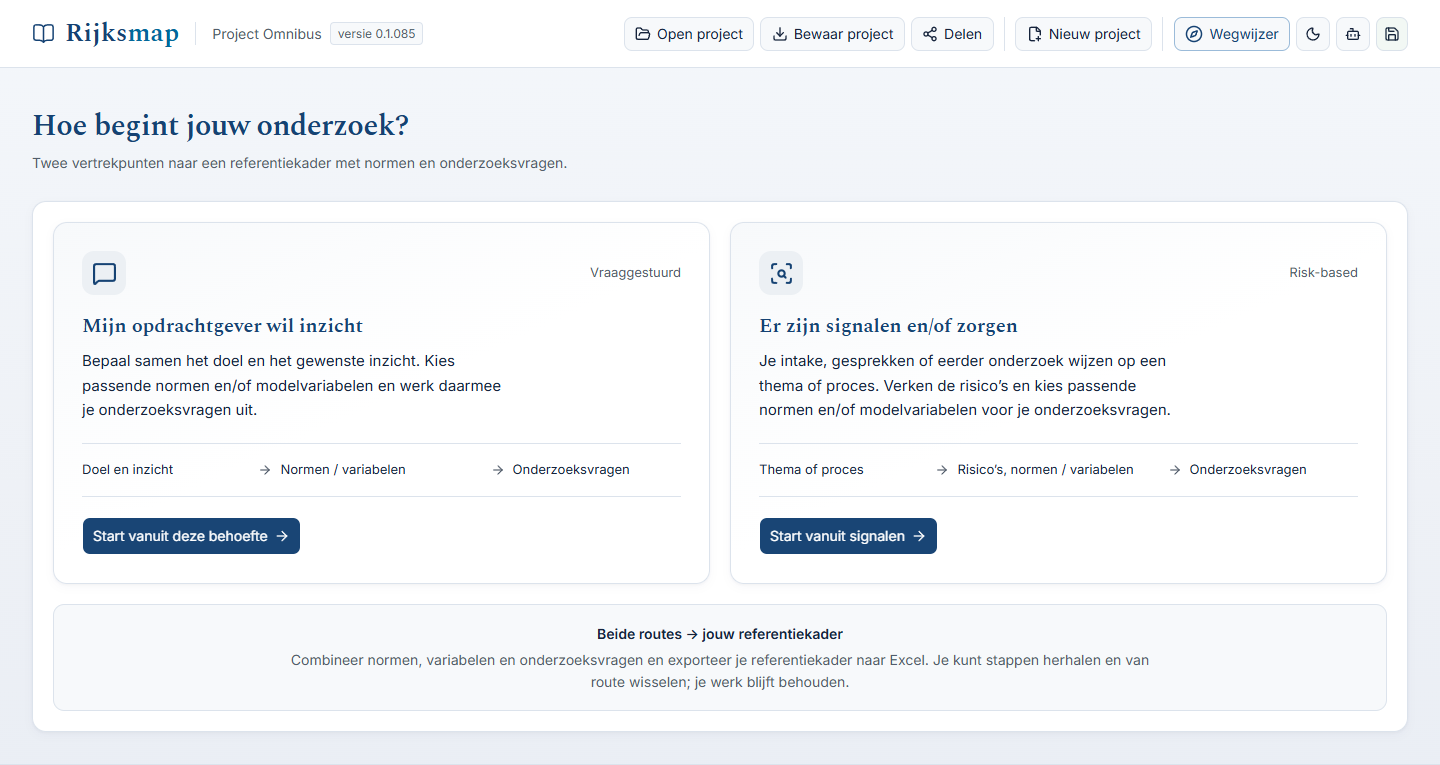
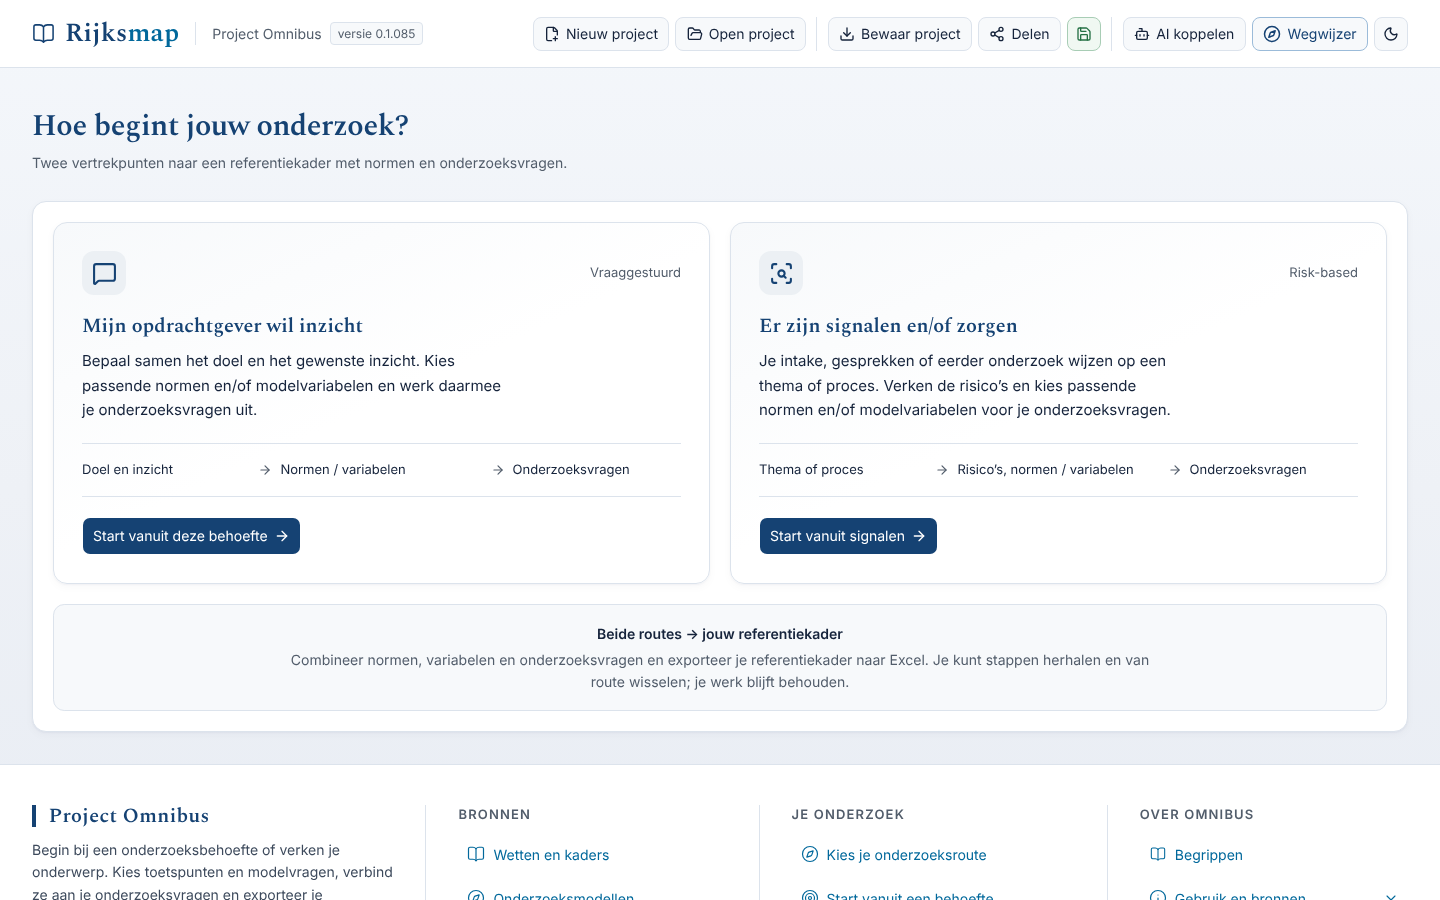
Rondleiding en nieuwe schermafbeeldingen, ook in donkere modus
- README: een rondleiding van 25 seconden (GIF, 1,1 MB) onder 'Zo werkt het':
  onderzoeksrichting kiezen, normen uit het CIO-stelsel selecteren, een
  centrale vraag met zes bouwstenen maken en exporteren naar Excel.
- Nieuwe schermafbeeldingen van alle vier de stappen, gemaakt met de openbare
  database en een fictief onderzoek, met beschrijvende alt-tekst.
- Startscherm en stap 2 ook in donkere modus (GitHub kiest zelf).
- Schermafbeeldingen bij installeren, AI-koppeling en eigen documenten.

Closes #6
Closes #33

Claude-Session: https://claude.ai/code/session_014QjVUqf6CZXmfGxtb2PVWK

diff --git a/docs/gebruiken/werken-met-omnibus.md b/docs/gebruiken/werken-met-omnibus.md
@@ -33,7 +33,14 @@ Kies hoe je begint:
 
 Beide routes komen uit bij hetzelfde kader. Je kunt later van route wisselen.
 
-![Het startscherm met de twee routes](../images/omnibus-overview.png)
+<picture>
+  <source media="(prefers-color-scheme: dark)" srcset="../images/omnibus-overview-donker.png">
+  <img src="../images/omnibus-overview.png" alt="Het startscherm met de twee routes: vanuit een vraag of vanuit signalen">
+</picture>
+
+Na je keuze geef je de onderzoeksrichting en het onderwerp op:
+
+![Stap 1: de onderzoeksrichting Diagnostisch is gekozen en het onderwerp ingevuld](../images/stap-1-onderzoeksrichting.png)
 
 ### 2. Verzamel
 
@@ -46,7 +53,10 @@ Blader door de bronnen en kies wat je nodig hebt:
 
 Bij elke norm zie je de samenhang tussen doel, risico, beheersdoelstelling en beheersmaatregel. Je kiest losse toetspunten, een hele norm of een hele groep.
 
-![Normen uit een rapport, met doel, risico en beheersing naast elkaar](../images/stap-2-verzamel.png)
+<picture>
+  <source media="(prefers-color-scheme: dark)" srcset="../images/stap-2-verzamel-donker.png">
+  <img src="../images/stap-2-verzamel.png" alt="Stap 2: normen uit het Besluit CIO-stelsel, met doel, risico, beheersdoelstelling en beheersmaatregel naast elkaar; zes toetspunten zijn gekozen">
+</picture>
 
 Twijfel je over een norm? Open de bron. Je leest dan de oorspronkelijke tekst, met de passage gemarkeerd.
 
@@ -57,7 +67,7 @@ Schrijf je centrale onderzoeksvraag en deelvragen. Koppel de gekozen bouwstenen 
 - **Zelf formuleren:** je schrijft de vragen, met voorbeelden als hulp.
 - **Vanuit je selectie:** Omnibus doet een voorstel op basis van wat je hebt gekozen. Jij past het aan.
 
-![Twee manieren om je vragen op te bouwen](../images/stap-3-bouw-je-kader.png)
+![Stap 3: een centrale onderzoeksvraag met zes gekoppelde bouwstenen](../images/stap-3-bouw-je-kader.png)
 
 ### 4. Exporteer
 
@@ -71,7 +81,7 @@ Kies een werkvorm voor je Excel-bestand:
 
 Alleen de indeling van het Excel-bestand verschilt. Je vragen en koppelingen blijven hetzelfde.
 
-![De exportstap met drie werkvormen](../images/stap-4-exporteer.png)
+![Stap 4: de exportstap met drie werkvormen; Normtoetsing is gekozen](../images/stap-4-exporteer.png)
 
 ## Je werk bewaren en delen
 

diff --git a/README.md b/README.md
@@ -39,7 +39,10 @@ Omnibus is een hulpmiddel voor **auditors en onderzoekers**. Het helpt je een *t
 
 Je begint niet met een leeg vel. Omnibus bevat normen uit eerdere onderzoeksrapporten, uit wetten en uit normenkaders. Jij kiest wat past bij jouw onderzoek. Bij elke norm kun je de oorspronkelijke bron lezen, zodat je altijd weet waar hij vandaan komt.
 
-![Het startscherm van Omnibus: kies of je begint vanuit een vraag of vanuit signalen](docs/images/omnibus-overview.png)
+<picture>
+  <source media="(prefers-color-scheme: dark)" srcset="docs/images/omnibus-overview-donker.png">
+  <img src="docs/images/omnibus-overview.png" alt="Het startscherm van Omnibus: kies of je begint vanuit een vraag of vanuit signalen">
+</picture>
 
 <a id="zo-werkt-het"></a>
 ## Zo werkt het
@@ -56,6 +59,8 @@ flowchart LR
 2. **Verzamel.** Blader door rapporten, wetten, kaders en onderzoeksmodellen. Kies losse toetspunten, een norm of een hele groep.
 3. **Bouw je kader.** Schrijf je onderzoeksvragen en koppel de gekozen normen eraan.
 4. **Exporteer.** Kies een werkvorm (normtoetsing, risico-controlmatrix of interviewleidraad) en download het Excel-bestand.
+
+![Rondleiding van 25 seconden: een onderzoeksrichting kiezen, normen uit het CIO-stelsel selecteren, een centrale vraag met zes bouwstenen maken en het kader als Excel exporteren](docs/images/rondleiding.gif)
 
 Meer uitleg met schermafbeeldingen: [werken met Omnibus](docs/gebruiken/werken-met-omnibus.md).
 

diff --git a/docs/gebruiken/eigen-documenten.md b/docs/gebruiken/eigen-documenten.md
@@ -28,6 +28,10 @@ flowchart LR
 3. **Controleer het resultaat.** De skill laat bij elke norm de bronpassage zien en markeert twijfels.
 4. **Je hebt nu een pakket** met normen, toetspunten en bronverwijzingen.
 
+Zo ziet een verwerkte bron er straks uit in Omnibus: links de norm en het toetspunt, rechts de oorspronkelijke tekst met de passage gemarkeerd.
+
+![Een verwerkte bron in Omnibus: links norm, toetspunt en beperkingen, rechts het rapport met de onderbouwende passage geel gemarkeerd](../images/bronpassage.png)
+
 Wil je dat pakket met anderen delen? Lever het in via [een bron verwerken](../bijdragen/bron-verwerken.md). De beheerder controleert het en neemt het op in de volgende database.
 
 ## Let op

diff --git a/docs/gebruiken/installeren.md b/docs/gebruiken/installeren.md
@@ -63,7 +63,12 @@ De eerste opdracht controleert of de database compleet en ongewijzigd is. Je zie
 npm start -- --settings local-data/runtime/local-build.json --port 4319
 ```
 
-Open daarna <http://127.0.0.1:4319/> in je browser. Stoppen doe je met `Ctrl+C`.
+Open daarna <http://127.0.0.1:4319/> in je browser. Stoppen doe je met `Ctrl+C`. Je ziet dan het startscherm:
+
+<picture>
+  <source media="(prefers-color-scheme: dark)" srcset="../images/omnibus-overview-donker.png">
+  <img src="../images/omnibus-overview.png" alt="Het startscherm van Omnibus na een geslaagde installatie">
+</picture>
 
 ## Goed om te weten
 

diff --git a/docs/gebruiken/ai-koppeling.md b/docs/gebruiken/ai-koppeling.md
@@ -43,6 +43,8 @@ De koppeling gebruikt **MCP** (Model Context Protocol), een standaard waarmee AI
 
    De knop met het robotje rechtsboven in Omnibus (**AI koppelen**) laat de juiste paden voor jouw computer zien.
 
+   ![Het venster AI koppelen: drie stappen om Omnibus in je AI-app te koppelen, met een knop om de instelling te kopiëren](../images/ai-koppelen.png)
+
 Begin daarna met een opdracht als: *"Gebruik Omnibus om voor dit onderwerp een onderzoeksopzet te maken. Bespreek eerst de afbakening, lees de bronbeperkingen en vraag mijn akkoord voordat je iets opslaat."*
 
 ## Let op
